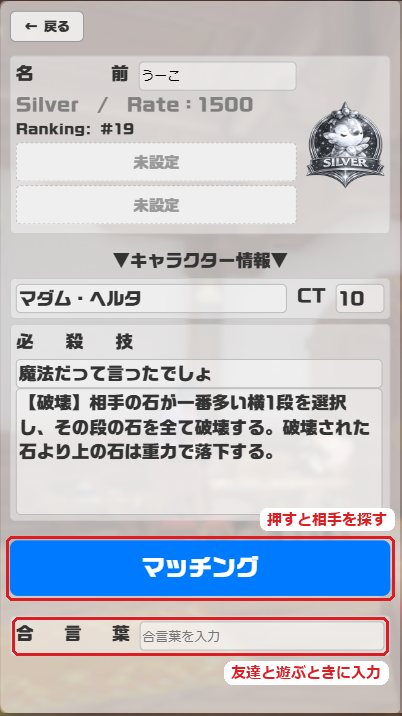
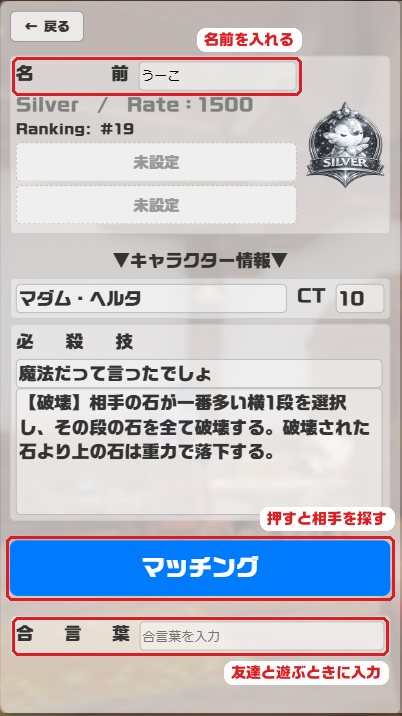
v1.80.2: あそびかたのマッチング画像の名前欄に赤枠、補足の文字をコネバトのフォント(SDK_JP_WEB)に

Changed region(s): [[0.0299, 0.0307, 0.7761, 0.1536], [0.5672, 0.9218, 0.9552, 0.9525], [0.6567, 0.7067, 0.9552, 0.7374]]

diff --git a/public/scripts/helpGuide.js b/public/scripts/helpGuide.js
@@ -6,7 +6,7 @@
 import { getCurrentLang } from './i18n.js';
 
 const IMG = 'public/help/';
-const IMGV = '?v=1.80.1'; // 画像を撮り直したら上げる(同じファイル名なので古い画像が残らないように)
+const IMGV = '?v=1.80.2'; // 画像を撮り直したら上げる(同じファイル名なので古い画像が残らないように)
 const BADGE = 'public/scripts/badges/';
 
 // layout: 'wide' = 画像が上・文字が下 / 'tall' = 画像が左・文字が右

diff --git a/public/scripts/version.js b/public/scripts/version.js
@@ -1,1 +1,1 @@
-export const APP_VERSION = "v1.80.1";
+export const APP_VERSION = "v1.80.2";

diff --git a/tools/help_screenshots.py b/tools/help_screenshots.py
@@ -19,7 +19,7 @@ DST = os.path.join(ROOT, 'public', 'help')
 B = 'http://127.0.0.1:8123/'
 VP = {'width': 1366, 'height': 768}
 RED = (220, 30, 36)
-FONT = 'C:/Windows/Fonts/meiryob.ttc'
+FONT = os.path.join(ROOT, 'public', 'font', 'SDK_JP_WEB.ttf')  # コネバトの画面と同じフォント
 
 # 赤枠と赤文字の補足(説明文に出てくるボタンや表示)。boxes.json に保存して build() で描く
 # 1項目 = (セレクタ または [まとめて1枠にするセレクタ...], 日本語の補足, 英語の補足, 補足の位置)
@@ -81,6 +81,7 @@ async def shoot():
         await th[5].click(); await pg.wait_for_timeout(800)
         await pg.mouse.move(5, 400); await pg.screenshot(path=f'{RAW}/sel_match_chosen.png')
         await mark(pg, 'match', [
+            (['#playerName', '.lobby-player-left .label'], '名前を入れる', 'Enter your name', 'above-r'),
             ('#matchButton', '押すと相手を探す', 'Press to find an opponent', 'above-r'),
             (['#roomMatching', '#matchModeBlock .info-item-yoko .label'], '友達と遊ぶときに入力', 'For playing with friends', 'below-r')])
 
